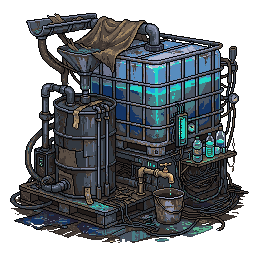
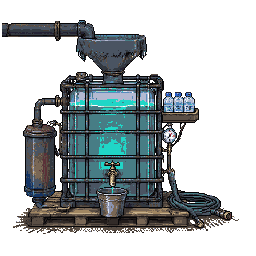
Zisterne neu in Frontansicht (PixelLab, #015)
Claude-Session: https://claude.ai/code/session_01DEYRZwFMzKhd3oS12fbtPp

diff --git a/docs/assets.md b/docs/assets.md
@@ -157,7 +157,8 @@ Pfade relativ zu `projects/nomadgirl/`. In Klammern die ID im Werkstatt-Bereich 
 | `assets/rig/exterior/*.png` | Außenwand-Clutter (#008, `out_*`): Abluft mit Ofenrohr, Bullauge mit Vorhang, Satellitenschüssel, Kälte-Panel, hängende Töpfe, Klimagerät, Katzen-Graffiti, Neon-Kreuz, Werkzeugbrett, Tresorrad, Regenrinne mit Fass, Kisten unterm Frachtnetz; je 64 × 64 aus 16 Kandidaten gewählt (bei `cistern` Streupixel entfernt); Klimagerät, Kisten und Schüssel in #009 neu, frontal bzw. im Profil | KI (PixelLab, Create Image Pro, AAP-64) | 13.11.2026 |
 | `assets/camp/deco/rug.png`, `chair_a.png`, `chair_b.png`, `camp_corner.png` | Deko ums Feuer, streng von der Seite (#009, `camp_*`): Teppich als Streifen, zwei Campingstühle im Profil, Ecke mit Kanistern, Kühlbox, Sukkulente, Munitionskiste; auf ihren Inhalt zugeschnitten | KI (PixelLab, Create Image Pro, AAP-64, Referenz Van) | 13.11.2026 |
 | `assets/camp/campfire_side.png` | Lagerfeuer von der Seite (#009, `campfire_side`): 8 Frames à 56 × 64 px, Steine als Reihe, Flammen flackern | KI (PixelLab, Create Image Pro + Animate Image, AAP-64) | 13.11.2026 |
-| `assets/workshops/cistern.png` | Zisterne (#008, `ws_cistern`): IBC-Tank im Käfig, Plane und Trichter, Filterfass, Hahn mit Eimer | KI (PixelLab, Create Image Pro, AAP-64, Stilbild Drohnenwerkbank) | 13.11.2026 |
+| `assets/workshops/cistern.png` | Zisterne frontal (#015, `ws_cistern`): IBC-Tank im Gitterkäfig mit Wasserstand, Trichter am Regenrohr, Filterfass, Hahn mit Eimer, Flaschenregal, Manometer, Schlauch, Palette. Daniel, 14.11.2026: „Perspektive ist komplett falsch“; erster Versuch mit der alten Zisterne als Referenz kam wieder schräg (verworfen), zweiter mit Ansicht `side` | KI (PixelLab, Create Object Pro Flash, Ansicht side, AAP-64, Stilbild Hydrokultur) | 14.11.2026 |
+| `assets/workshops/cistern_iso.png` | Erste Zisterne, schräg von oben (`ws_cistern_iso`, Referenz) | KI (PixelLab, Create Image Pro, AAP-64, Stilbild Drohnenwerkbank) | 13.11.2026 |
 | `assets/companions/schraube_idle.png`, `onkel_sung_idle.png` | Companions stehen (#008): Schraube (2 Frames, die anderen setzten eine Kapuze auf) und Onkel Sung (4 Frames), Blick nach rechts | KI (PixelLab, Charakter + breathing-idle), zugeschnitten (Code) | 13.11.2026 |
 | `assets/tutorial/tut_<lektion>.webm`, `tut_<lektion>_<n>.webp` | Feldhandbuch (#011): 22 Clips (WebM/VP9, 640 px, 15 fps) und 61 Bilder (WebP, 960 px) der Lektionen, aus dem Spiel aufgenommen (`tools/tutorial_capture.mjs`), keine neuen Grafiken | Code (Aufnahme aus dem Spiel) | 13.11.2026 |
 
